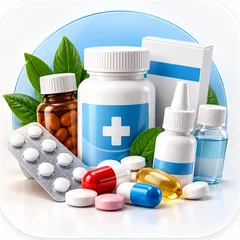
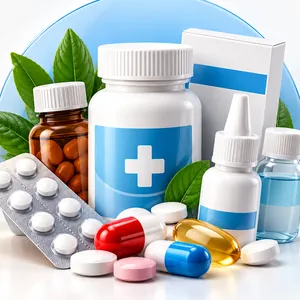
Category tiles: photo fills the whole tile, name on a band at the bottom
Claude-Session: https://claude.ai/code/session_013Ad2XkGtYtFJaKJDixZLxm

diff --git a/public/index.html b/public/index.html
@@ -10082,13 +10082,13 @@ prepareProductCaches();
 
 
 const mainCategoryImages = {
-  top: "/cat/top.webp?v=1",
-  medicine: "/cat/medicine.webp?v=1",
-  supplements: "/cat/supplements.webp?v=1",
-  skin: "/cat/skin.webp?v=1",
-  hair: "/cat/hair.webp?v=1",
-  sun: "/cat/sun.webp?v=1",
-  tourist: "/cat/tourist.webp?v=1"
+  top: "/cat/top.webp?v=2",
+  medicine: "/cat/medicine.webp?v=2",
+  supplements: "/cat/supplements.webp?v=2",
+  skin: "/cat/skin.webp?v=2",
+  hair: "/cat/hair.webp?v=2",
+  sun: "/cat/sun.webp?v=2",
+  tourist: "/cat/tourist.webp?v=2"
 };
 
 const touristNeedCodes = {"Diarrhea & stomach":["SC031","SC008","SC073","SC071","SC095","SC092","SC083","SC084","SC075","SC047","SC195","SC202","SC205","SC203","SC215","SC037","SC218","SC186","SC187","SC064","SC211","SC183","SC208","SC184","SC359","SC360","SC362","SC180","SC417","SC396","SC393","SC426","SC418","SC425","SC390","SC409","SC428","SC430","SC420"],"Sunburn & SPF":["SC077","SC305","SC283","SC284","SC285","SC287","SC322","SC323","SC324","SC325","SC326","SC331","SC332","SC333","SC334","SC238","SC240","SC245","SC246","SC237","SC239","SC342","SC344","SC258","SC343","SC338","SC171","SC247","SC302","SC299","SC276","SC241","SC242","SC243","SC244","SC310"],"Cold & sore throat":["SC001","SC036","SC006","SC002","SC067","SC070","SC068","SC087","SC090","SC209","SC046","SC089","SC182","SC185","SC093","SC303","SC398","SC424","SC419","SC423","SC421"],"Pain & fever":["SC020","SC053","SC082","SC021","SC078","SC025","SC033","SC029","SC049","SC032","SC219","SC054","SC181","SC199","SC197","SC198","SC200","SC097","SC099","SC154","SC158","SC159","SC058","SC151","SC145","SC289","SC290","SC293","SC422","SC414"],"Allergy":["SC030","SC041","SC079","SC091","SC081","SC088","SC006","SC201","SC416","SC408"],"Eye drops":["SC005","SC213","SC222","SC402","SC410"],"Mosquito protection":["SC040"],"Sleep support":["SC014","SC015","SC107","SC371","SC384","SC394"],"Antibiotics":["SC010","SC039","SC038","SC050","SC051","SC034","SC161","SC065","SC429","SC407","SC397"],"Cosmetics":["SC112","SC113","SC114","SC115","SC116","SC117","SC118","SC119","SC120","SC121","SC122","SC123","SC127","SC130","SC132","SC133","SC134","SC135","SC136","SC137","SC138","SC139","SC144","SC146","SC147","SC149","SC150","SC172","SC173","SC174","SC175","SC233","SC234","SC235","SC236","SC248","SC249","SC250","SC251","SC252","SC253","SC254","SC255","SC256","SC257","SC259","SC260","SC261","SC262","SC263","SC264","SC265","SC266","SC267","SC268","SC269","SC270","SC271","SC272","SC273","SC274","SC275","SC276","SC277","SC278","SC279","SC280","SC281","SC282","SC286","SC288","SC291","SC292","SC294","SC295","SC296","SC297","SC299","SC300","SC301","SC302","SC306","SC307","SC308","SC309","SC311","SC312","SC314","SC315","SC316","SC317","SC318","SC319","SC320","SC321","SC327","SC328","SC329","SC330","SC335","SC336","SC337","SC338","SC339","SC341","SC343","SC345","SC346","SC347","SC348","SC349","SC350","SC351","SC352","SC353","SC355","SC356","SC399"]};
@@ -13922,7 +13922,7 @@ window.scMobility = { open() { host.hidden = false; start(); }, close() { host.h
   if (typeof categoryGroups === 'undefined' || typeof renderGrid !== 'function') return;
   categoryGroups.mobility = { label: '🛵 Mobility rental', subs: ['Mobility rental'] };
   if (typeof mainCategoryImages !== 'undefined')
-    mainCategoryImages.mobility = '/cat/mobility.webp?v=1';
+    mainCategoryImages.mobility = '/cat/mobility.webp?v=2';
   const host = document.getElementById('mobSection');
   const baseRenderGrid = renderGrid;
   renderGrid = function () {
@@ -14142,8 +14142,15 @@ window.scMobility = { open() { host.hidden = false; start(); }, close() { host.h
 .floating-wa{width:46px!important;height:46px!important;right:12px!important;bottom:14px!important;font-size:21px!important;border-width:2px!important;box-shadow:0 6px 16px rgba(37,211,102,.32)!important}
 body{padding-bottom:64px}
 .sc-version-stamp{display:none!important}
-#filters .main-filters .main-filter-btn .cat-icon.cat-img,#filters .main-filters .main-filter-btn.tourist-main .cat-icon.cat-img{width:52px!important;height:52px!important;flex:0 0 52px!important;border-radius:13px!important;overflow:hidden!important;background:none!important;margin-bottom:4px!important}
-#filters .main-filters .main-filter-btn .cat-icon.cat-img img{width:100%!important;height:100%!important;object-fit:cover!important;border-radius:13px!important}
+#filters .main-filters .main-filter-btn,#filters .main-filters .main-filter-btn.tourist-main{position:relative!important;overflow:hidden!important;padding:0!important;min-height:92px!important;display:flex!important;flex-direction:column!important;justify-content:flex-end!important;align-items:stretch!important;gap:0!important;background:#fff!important}
+#filters .main-filters .main-filter-btn .cat-icon.cat-img,#filters .main-filters .main-filter-btn.tourist-main .cat-icon.cat-img{position:absolute!important;inset:0!important;width:100%!important;height:100%!important;flex:none!important;margin:0!important;border-radius:0!important;background:none!important;overflow:hidden!important}
+#filters .main-filters .main-filter-btn .cat-icon.cat-img img{width:100%!important;height:100%!important;object-fit:cover!important;border-radius:0!important;transform:scale(1.04)}
+#filters .main-filters .main-filter-btn .cat-name,#filters .main-filters .main-filter-btn.tourist-main .cat-name{position:relative!important;z-index:1!important;display:block!important;margin:0!important;padding:5px 3px 6px!important;background:rgba(255,255,255,.93)!important;backdrop-filter:blur(4px);font-size:10.4px!important;line-height:1.1!important;text-align:center!important}
+#filters .main-filters .main-filter-btn .cat-hot,#filters .main-filters .main-filter-btn.tourist-main .cat-hot{z-index:2!important;top:4px!important;right:4px!important;left:auto!important;transform:none!important}
+#filters .main-filters .main-filter-btn.active .cat-name{background:#5B295A!important;color:#fff!important}
+@media(min-width:700px){#filters .main-filters .main-filter-btn,#filters .main-filters .main-filter-btn.tourist-main{min-height:170px!important}#filters .main-filters .main-filter-btn .cat-name{font-size:13px!important;padding:7px 4px!important}}
+@media(max-width:560px){#filters .main-filters .main-filter-btn,#filters .main-filters .main-filter-btn.tourist-main{min-height:88px!important;padding:0!important}#filters .main-filters .main-filter-btn.tourist-main .cat-icon.cat-img{width:100%!important;height:100%!important;flex-basis:auto!important}#filters .main-filters .main-filter-btn.tourist-main .cat-name{font-size:10.4px!important}}
+@media(max-width:380px){#filters .main-filters .main-filter-btn{min-height:84px!important}#filters .main-filters .main-filter-btn .cat-name{font-size:9.6px!important}}
 .final-checkout-btn{background:linear-gradient(135deg,#5B295A,#9A2D98)!important;box-shadow:0 12px 26px rgba(91,41,90,.22)!important}
 </style>
 </body>

diff --git a/tools/merge/build.js b/tools/merge/build.js
@@ -415,8 +415,15 @@ rep("\n</body>\n", `\n<style id="sc-look-v1">
 .floating-wa{width:46px!important;height:46px!important;right:12px!important;bottom:14px!important;font-size:21px!important;border-width:2px!important;box-shadow:0 6px 16px rgba(37,211,102,.32)!important}
 body{padding-bottom:64px}
 .sc-version-stamp{display:none!important}
-#filters .main-filters .main-filter-btn .cat-icon.cat-img,#filters .main-filters .main-filter-btn.tourist-main .cat-icon.cat-img{width:52px!important;height:52px!important;flex:0 0 52px!important;border-radius:13px!important;overflow:hidden!important;background:none!important;margin-bottom:4px!important}
-#filters .main-filters .main-filter-btn .cat-icon.cat-img img{width:100%!important;height:100%!important;object-fit:cover!important;border-radius:13px!important}
+#filters .main-filters .main-filter-btn,#filters .main-filters .main-filter-btn.tourist-main{position:relative!important;overflow:hidden!important;padding:0!important;min-height:92px!important;display:flex!important;flex-direction:column!important;justify-content:flex-end!important;align-items:stretch!important;gap:0!important;background:#fff!important}
+#filters .main-filters .main-filter-btn .cat-icon.cat-img,#filters .main-filters .main-filter-btn.tourist-main .cat-icon.cat-img{position:absolute!important;inset:0!important;width:100%!important;height:100%!important;flex:none!important;margin:0!important;border-radius:0!important;background:none!important;overflow:hidden!important}
+#filters .main-filters .main-filter-btn .cat-icon.cat-img img{width:100%!important;height:100%!important;object-fit:cover!important;border-radius:0!important;transform:scale(1.04)}
+#filters .main-filters .main-filter-btn .cat-name,#filters .main-filters .main-filter-btn.tourist-main .cat-name{position:relative!important;z-index:1!important;display:block!important;margin:0!important;padding:5px 3px 6px!important;background:rgba(255,255,255,.93)!important;backdrop-filter:blur(4px);font-size:10.4px!important;line-height:1.1!important;text-align:center!important}
+#filters .main-filters .main-filter-btn .cat-hot,#filters .main-filters .main-filter-btn.tourist-main .cat-hot{z-index:2!important;top:4px!important;right:4px!important;left:auto!important;transform:none!important}
+#filters .main-filters .main-filter-btn.active .cat-name{background:#5B295A!important;color:#fff!important}
+@media(min-width:700px){#filters .main-filters .main-filter-btn,#filters .main-filters .main-filter-btn.tourist-main{min-height:170px!important}#filters .main-filters .main-filter-btn .cat-name{font-size:13px!important;padding:7px 4px!important}}
+@media(max-width:560px){#filters .main-filters .main-filter-btn,#filters .main-filters .main-filter-btn.tourist-main{min-height:88px!important;padding:0!important}#filters .main-filters .main-filter-btn.tourist-main .cat-icon.cat-img{width:100%!important;height:100%!important;flex-basis:auto!important}#filters .main-filters .main-filter-btn.tourist-main .cat-name{font-size:10.4px!important}}
+@media(max-width:380px){#filters .main-filters .main-filter-btn{min-height:84px!important}#filters .main-filters .main-filter-btn .cat-name{font-size:9.6px!important}}
 .final-checkout-btn{background:linear-gradient(135deg,#5B295A,#9A2D98)!important;box-shadow:0 12px 26px rgba(91,41,90,.22)!important}
 </style>
 </body>
@@ -448,10 +455,10 @@ body{padding-bottom:64px}
 }
 
 /* ---------- category icons (files in public/cat, from merge/cat) ---------- */
-replaceDecl("mainCategoryImages", "const mainCategoryImages = {\n" + ["top","medicine","supplements","skin","hair","sun","tourist"].map(k => `  ${k}: "/cat/${k}.webp?v=1"`).join(",\n") + "\n};");
+replaceDecl("mainCategoryImages", "const mainCategoryImages = {\n" + ["top","medicine","supplements","skin","hair","sun","tourist"].map(k => `  ${k}: "/cat/${k}.webp?v=2"`).join(",\n") + "\n};");
 {
   const m = html.match(/mainCategoryImages\.mobility = '[^']*'/);
-  if(!m) failures.push("mobility icon"); else html = html.replace(m[0], "mainCategoryImages.mobility = '/cat/mobility.webp?v=1'");
+  if(!m) failures.push("mobility icon"); else html = html.replace(m[0], "mainCategoryImages.mobility = '/cat/mobility.webp?v=2'");
 }
 
 /* ---------- 5. write ---------- */
